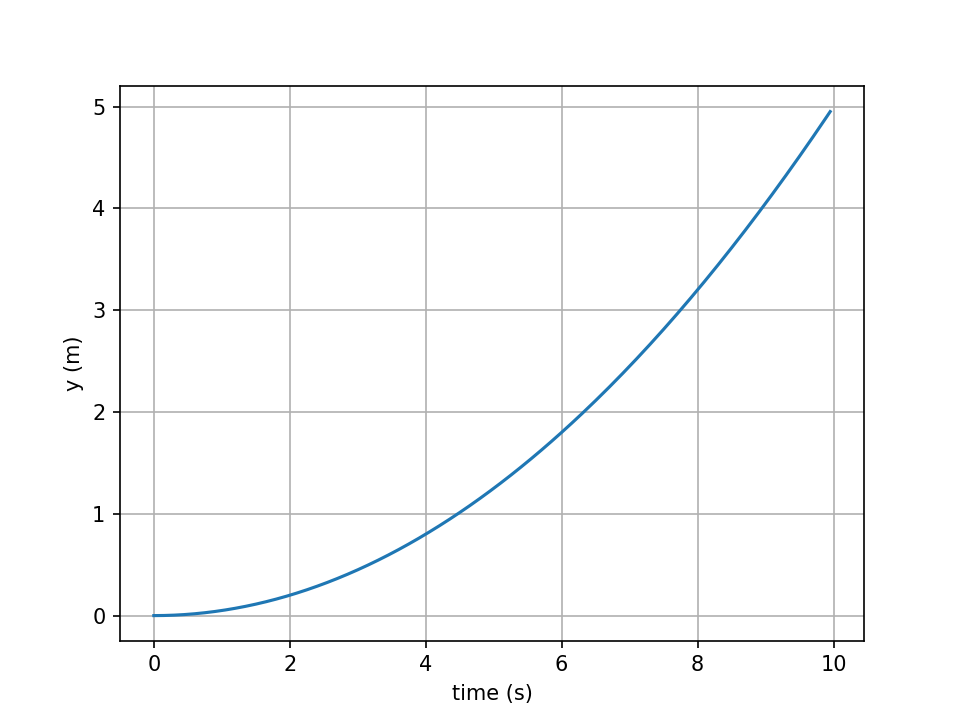
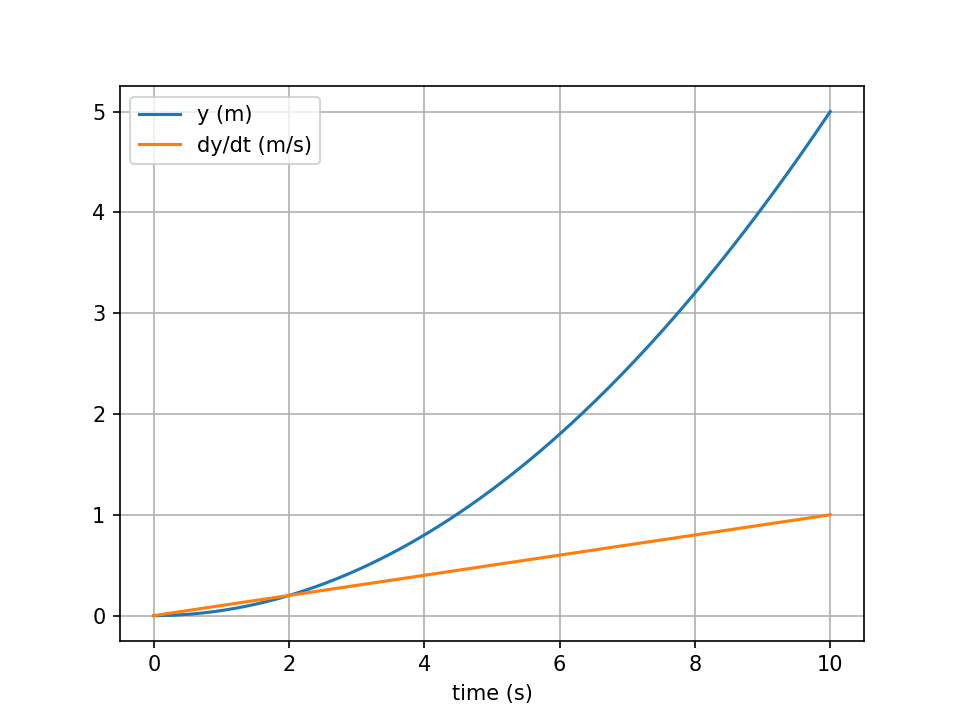
symbolic tutorial working for full cart derivation

diff --git a/Modelling/cart_modelling/SymbolicTutorial.py b/Modelling/cart_modelling/SymbolicTutorial.py
@@ -1,4 +1,11 @@
+import sympy as sp
 from sympy import symbols, Function, diff, Eq, simplify, pprint
+import numpy as np
+from scipy.integrate import solve_ivp
+import matplotlib.pyplot as plt
+from cartPlotting import animate_cart
+import os
+file_directory = os.path.dirname(os.path.abspath(__file__))
 
 # -----------------------------
 # Step 1: Define symbols
@@ -16,19 +23,24 @@ pprint(y)
 print("\n")
 
 # -----------------------------
-# Step 2: Define kinetic energy only (no potential energy)
+# Step 2: Define energy terms
 # -----------------------------
-print("Step 2: Defining kinetic energy...")
+print("Step 2: Defining energy terms...")
 T = (1/2) * m * diff(y, t)**2  # kinetic energy
 print("Kinetic Energy T =")
 pprint(T)
+print("\n")
+
+V = 0  # potential energy (zero for this example)
+print("Potential Energy V =")
+pprint(V)
 print("\n")
 
 # -----------------------------
 # Step 3: Construct the Lagrangian
 # -----------------------------
 print("Step 3: Constructing the Lagrangian (no potential energy)...")
-L = T
+L = T - V
 print("Lagrangian L =")
 pprint(L)
 print("\n")
@@ -38,6 +50,7 @@ print("\n")
 # -----------------------------
 print("Step 4: Applying Lagrange-d'Alembert equation with generalized force Q...")
 y_dot = diff(y, t)
+y_ddot = diff(y, t, t)
 dL_dy = diff(L, y)               # ∂L/∂y
 dL_dy_dot = diff(L, y_dot)       # ∂L/∂y_dot
 d_dt_dL_dy_dot = diff(dL_dy_dot, t)  # d/dt(∂L/∂y_dot)
@@ -47,13 +60,57 @@ EL_eq = Eq(d_dt_dL_dy_dot - dL_dy, Q)
 print("Lagrange-d'Alembert equation:")
 pprint(EL_eq)
 print("\n")
+print("This is Newton's second law rearranged!")
 
 # -----------------------------
-# Step 5: Simplify to Newton's Law
+# Step 6: Simulate the system!
 # -----------------------------
-print("Step 5: Simplifying equation to F = m a...")
-a = diff(y, t, t)  # acceleration
-EL_eq_simplified = simplify(EL_eq.subs(diff(y, t, t), a))
-print("Final simplified equation:")
-pprint(EL_eq_simplified)
-print("This is Newton's second law derived using Lagrange-d'Alembert with a generalized force.")
+x_dot1 = y_dot                  # dx/dt = v
+x_dot2 = sp.solve(EL_eq, y_ddot)[0]   # -> rearrange the symbolic equation for y_ddot
+
+x = sp.Matrix([y, y_dot])  # state vector
+x_dot = sp.Matrix([x_dot1, x_dot2])  # first-order state-space model
+
+x_dot_func = sp.lambdify((t, x, u, m), list(x_dot), 'numpy') # convert model to a numerical function
+
+# Define control input
+def u_func(t,x):
+    force = 1.0  # Constant control input for this example
+    return np.float64(force)
+
+def system(t, x):
+    u_val = u_func(t,x)
+    return np.array(x_dot_func(t, x, u_val, m_val)).flatten()
+
+m_val = 10.0
+x0 = np.array([0.0, 0.0])  # initial position and velocity
+t_span = (0, 10)
+t_eval = np.linspace(*t_span, 200)
+
+solution = solve_ivp(system, t_span, x0, t_eval=t_eval)
+
+# Extract simulation results and visualise
+t = solution.t
+x = solution.y[0]
+xdot = solution.y[1]
+F = np.array([u_func(ti,[xi, vi]) for xi, vi, ti in zip(x, xdot, t)])
+
+# --- Plot results ---
+plt.figure()
+plt.plot(t, x, label="y (m)")
+plt.plot(t, xdot, label="dy/dt (m/s)")
+plt.xlabel("time (s)")
+plt.legend()
+plt.grid(True)
+plt.savefig(str(file_directory)+"/response_plot.png", dpi=150)
+
+plt.figure()
+plt.plot(t, F)
+plt.xlabel("time (s)")
+plt.ylabel("Force (N)")
+plt.grid(True)
+plt.savefig(str(file_directory)+"/force_plot.png", dpi=150)
+
+# --- Generate visualisation of the cart simulation! ---
+cart_anim_file = str(file_directory)+"/Cart_simulation.gif"
+animate_cart(x_sol=x, F_sol=F, t_vec=t, file_name=cart_anim_file)
